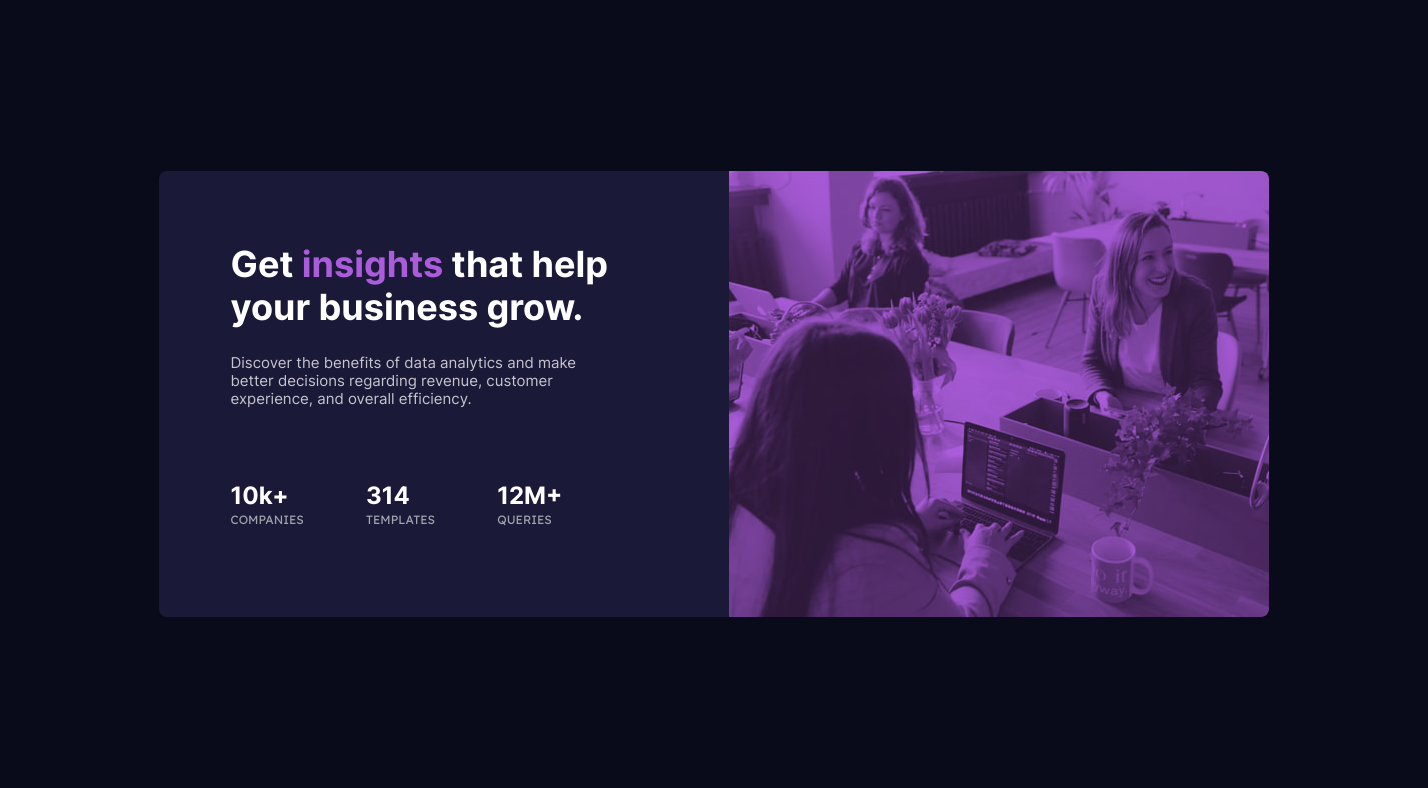
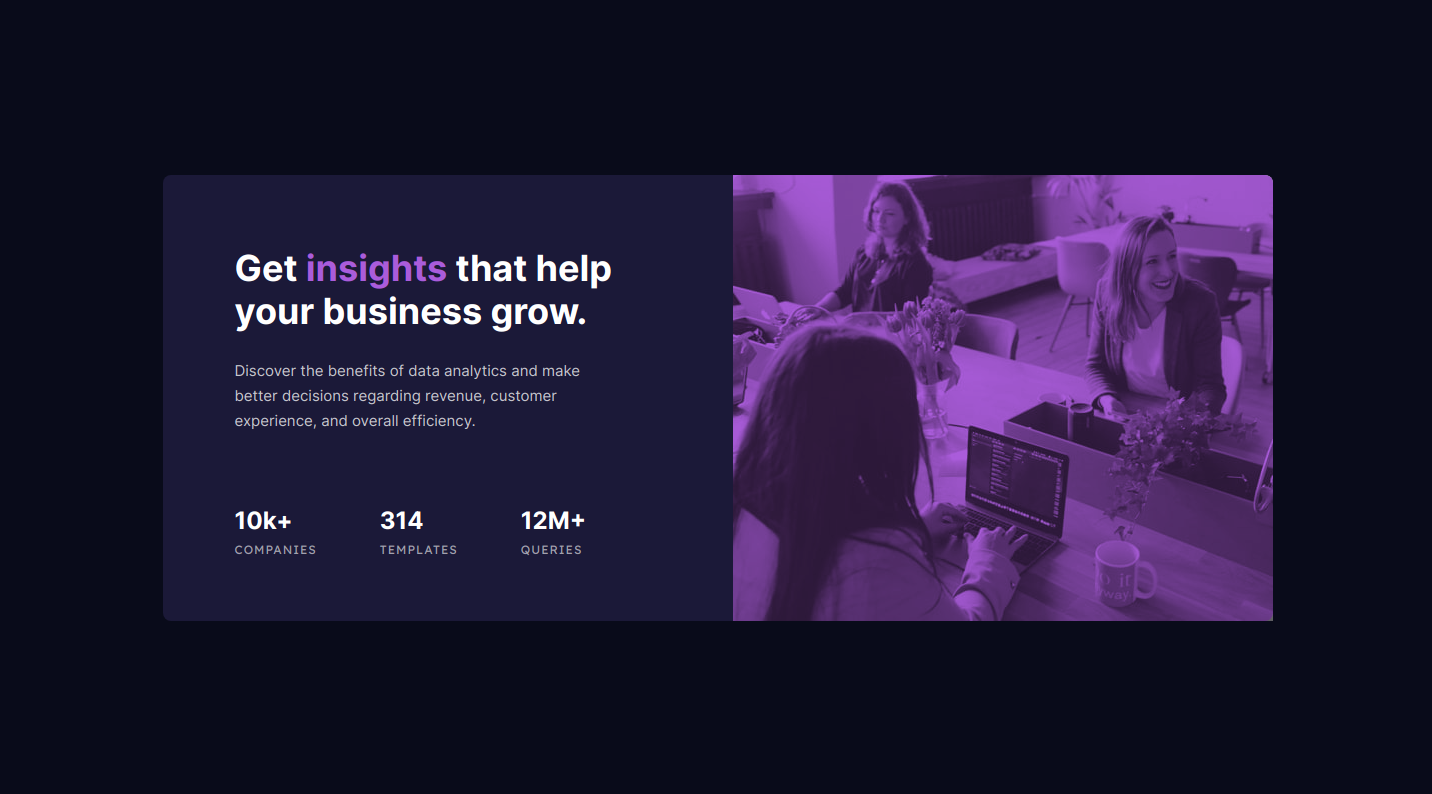
Updated README.md.

diff --git a/src/style.css b/src/style.css
@@ -38,7 +38,6 @@ body {
 .img-color-wrap {
   background-color: var(--color-soft-violet);
   isolation: isolate;
-  /* z-index: 2; */
 }
 
 .image-div {
@@ -47,7 +46,6 @@ body {
   background-size: contain;
   mix-blend-mode: multiply;
   opacity: 0.7511;
-  /* z-index: 3; */
 }
 
 .value {

diff --git a/README.md b/README.md
@@ -14,6 +14,8 @@ This is a solution to the [Stats preview card component challenge on Frontend Me
     - [Links](#links)
   - [My process](#my-process)
     - [Built with](#built-with)
+    - [What I learned](#what-i-learned)
+    - [Useful resources](#useful-resources)
   - [Author](#author)
 
 ## Overview
@@ -42,6 +44,29 @@ Users should be able to:
 - CSS custom properties
 - Flexbox
 - Mobile-first workflow
+
+### What I learned
+
+This project introduced me to the css blend properties, specifically mix-blend-mode. Wasn't too difficult to figure out; however, getting the screenshot to work properly on Frontend Mentor's website was proving to be difficult. Each time I uploaded I only saw a color background without an image on the screenshot despite everything working properly on a live site. Thankfully, I found an article that went over the isolation css property.
+
+```css
+.img-color-wrap {
+  background-color: var(--color-soft-violet);
+  isolation: isolate;
+}
+
+.image-div {
+  background-position: center;
+  background-repeat: no-repeat;
+  background-size: contain;
+  mix-blend-mode: multiply;
+  opacity: 0.75;
+}
+```
+
+### Useful resources
+
+- [How to use CSS blend modes](https://getflywheel.com/layout/css-blend-modes/) - This helped with the blend properties and taught me the isolation css property.
 
 ## Author
 
